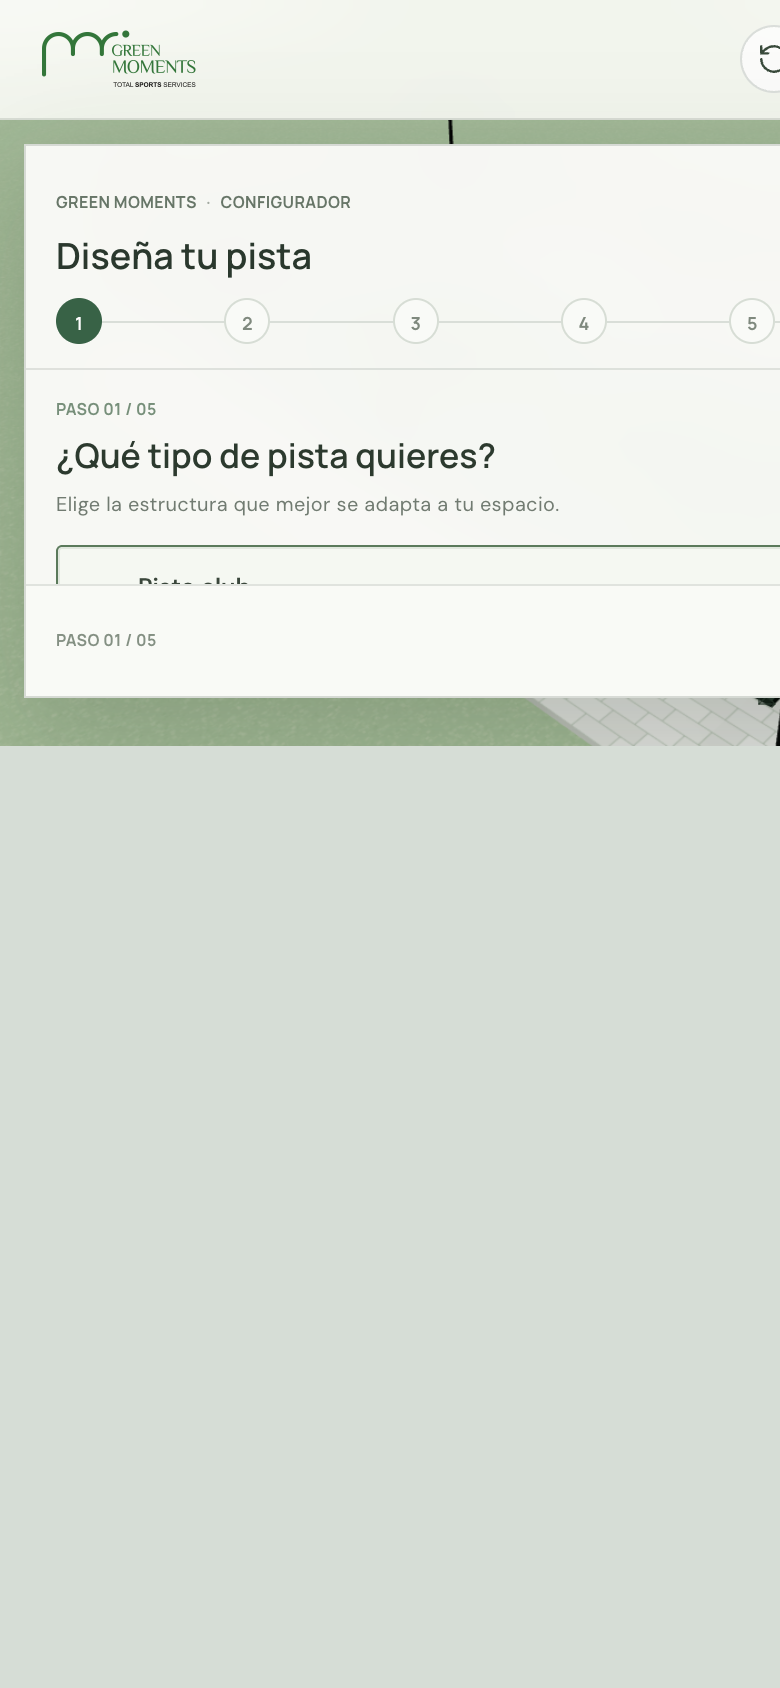
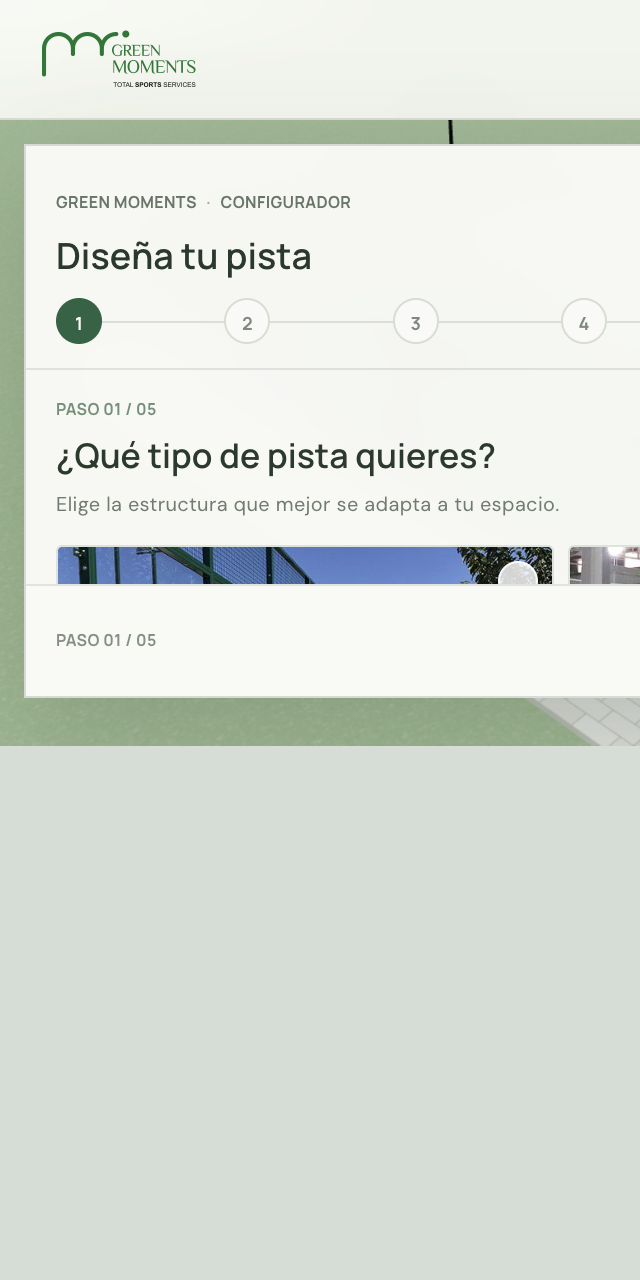
Add Green Moments court model photo selector

Changed region(s): [[0.0, 0.0, 1.0, 0.5938], [0.9062, 0.25, 0.9375, 0.2812]]

diff --git a/src/App.tsx b/src/App.tsx
@@ -6,8 +6,12 @@ import { ArrowLeft, ArrowRight, Camera, Check, Mail, Moon, Move3D, Pencil, Rotat
 import './App.css'
 
 const courtTypes = [
-  { id: 'club', label: 'Pista club', description: 'Fondos de vidrio con postes intermedios' },
-  { id: 'panoramic', label: 'Pista panorámica', description: 'Fondos continuos sin postes intermedios' },
+  { id: 'modular', label: 'Pista modular', description: 'Montaje versátil con estructura modular.', image: 'court-model-modular.jpg' },
+  { id: 'pillars', label: 'Pista de pilares', description: 'Estructura reforzada con pilares intermedios.', image: 'court-model-pillars.jpg' },
+  { id: 'panoramic', label: 'Pista panorámica', description: 'Fondos acristalados continuos para una visión amplia.', image: 'court-model-panoramic.jpg' },
+  { id: 'individual', label: 'Pista individual', description: 'Formato compacto para partidos uno contra uno.', image: 'court-model-individual.jpg' },
+  { id: 'indoor', label: 'Pista indoor', description: 'Configuración bajo cubierta.', image: 'court-model-indoor.jpg' },
+  { id: 'outdoor', label: 'Pista outdoor', description: 'Configuración para instalaciones al aire libre.', image: 'court-model-outdoor.jpg' },
 ] as const
 
 const grassTypes = [
@@ -50,7 +54,7 @@ type CourtConfiguration = {
 }
 
 const defaultCourtConfiguration: CourtConfiguration = {
-  courtType: 'club',
+  courtType: 'modular',
   grassType: 'monofilament',
   grassColor: 'green',
   frameColor: 'black',
@@ -149,6 +153,7 @@ function createLandscapeTexture() {
 function CourtScene({ night, court }: { night: boolean; court: CourtConfiguration }) {
   const turf = useMemo(() => createTurfTexture(court.grassColor, court.grassType), [court.grassColor, court.grassType])
   const frameColor = frameColors.find((option) => option.id === court.frameColor)?.color ?? '#242a27'
+  const courtWidthScale = court.courtType === 'individual' ? 0.62 : 1
 
   const fenceGeometry = useMemo(() => {
     const points: number[] = []
@@ -171,7 +176,7 @@ function CourtScene({ night, court }: { night: boolean; court: CourtConfiguratio
   }, [])
 
   const floodlightPositions: [number, number, number][] = [
-    [-11, 6, -6], [-11, 6, 6], [11, 6, -6], [11, 6, 6],
+    [-11, 6, -6 * courtWidthScale], [-11, 6, 6 * courtWidthScale], [11, 6, -6 * courtWidthScale], [11, 6, 6 * courtWidthScale],
   ]
 
   return (
@@ -186,6 +191,7 @@ function CourtScene({ night, court }: { night: boolean; court: CourtConfiguratio
       ))}
 
       <OutdoorEnvironment night={night} />
+      <group scale={[1, 1, courtWidthScale]}>
       <mesh position={[0, 0, 0]} receiveShadow castShadow>
         <boxGeometry args={[20.35, 0.16, 10.35]} />
         <meshStandardMaterial color="#1e3228" roughness={0.7} />
@@ -214,6 +220,8 @@ function CourtScene({ night, court }: { night: boolean; court: CourtConfiguratio
       <Suspense fallback={null}><LogoSigns /></Suspense>
       <Floodlights night={night} type={court.lighting} frameColor={frameColor} />
       <mesh position={[0, 0.2, 0]}><sphereGeometry args={[0.12, 20, 20]} /><meshStandardMaterial color="#f2e955" roughness={0.35} /></mesh>
+      {court.courtType === 'indoor' && <IndoorRoof frameColor={frameColor} />}
+      </group>
       <ContactShadows position={[0, -0.055, 0]} opacity={night ? 0.45 : 0.25} scale={28} blur={2.8} far={8} />
       <OrbitControls makeDefault target={[0, 1.2, 0]} minDistance={13} maxDistance={32} minPolarAngle={0.35} maxPolarAngle={1.42} enablePan={false} dampingFactor={0.08} />
     </>
@@ -263,17 +271,31 @@ function Net() {
 }
 
 function FenceSupports({ courtType, frameColor }: { courtType: CourtConfiguration['courtType']; frameColor: string }) {
+  const sidePostPositions = courtType === 'pillars' ? [-10, -7.5, -5, 0, 5, 7.5, 10] : [-10, -7.5, 0, 7.5, 10]
+  const endPostPositions = courtType === 'panoramic' ? [-5, 5] : [-5, 0, 5]
   return (
     <group>
-      {[-10, -7.5, 0, 7.5, 10].flatMap((x) => [-1, 1].map((side) => (
+      {sidePostPositions.flatMap((x) => [-1, 1].map((side) => (
         <mesh key={`side-pole-${x}-${side}`} position={[x, 2.14, side * 5.03]}><boxGeometry args={[0.085, 4.28, 0.085]} /><meshStandardMaterial color={frameColor} metalness={0.72} roughness={0.32} /></mesh>
       )))}
-      {[-10, 10].flatMap((x) => (courtType === 'club' ? [-5, 0, 5] : [-5, 5]).map((z) => (
+      {[-10, 10].flatMap((x) => endPostPositions.map((z) => (
         <mesh key={`end-pole-${x}-${z}`} position={[x, 2.14, z]}><boxGeometry args={[0.085, 4.28, 0.085]} /><meshStandardMaterial color={frameColor} metalness={0.72} roughness={0.32} /></mesh>
       )))}
       <mesh position={[0, 4.25, -5.03]}><boxGeometry args={[20.1, 0.09, 0.09]} /><meshStandardMaterial color={frameColor} metalness={0.65} roughness={0.35} /></mesh>
       <mesh position={[0, 4.25, 5.03]}><boxGeometry args={[20.1, 0.09, 0.09]} /><meshStandardMaterial color={frameColor} metalness={0.65} roughness={0.35} /></mesh>
       {[-10.03, 10.03].map((x) => <mesh key={`end-rail-${x}`} position={[x, 4.25, 0]}><boxGeometry args={[0.09, 0.09, 10.1]} /><meshStandardMaterial color={frameColor} metalness={0.65} roughness={0.35} /></mesh>)}
+    </group>
+  )
+}
+
+function IndoorRoof({ frameColor }: { frameColor: string }) {
+  return (
+    <group>
+      <mesh position={[0, 8.3, 0]} rotation={[-Math.PI / 2, 0, 0]}>
+        <planeGeometry args={[21, 10.8]} />
+        <meshPhysicalMaterial color="#d7dfd8" transparent opacity={0.22} roughness={0.5} metalness={0.08} depthWrite={false} side={DoubleSide} />
+      </mesh>
+      {[-9, -4.5, 0, 4.5, 9].map((x) => <mesh key={`roof-rafter-${x}`} position={[x, 8.18, 0]}><boxGeometry args={[0.12, 0.12, 10.6]} /><meshStandardMaterial color={frameColor} metalness={0.42} roughness={0.48} /></mesh>)}
     </group>
   )
 }
@@ -376,6 +398,19 @@ function App() {
     )
   }
 
+  function renderCourtChoices() {
+    return (
+      <div className="court-choice-grid">
+        {courtTypes.map((option) => (
+          <button key={option.id} className={`court-model-card${configuration.courtType === option.id ? ' is-selected' : ''}`} type="button" aria-pressed={configuration.courtType === option.id} onClick={() => updateConfiguration('courtType', option.id)}>
+            <span className="court-model-image"><img src={`${import.meta.env.BASE_URL}${option.image}`} alt="" loading="lazy" /><span className="court-model-mark"><Check size={13} strokeWidth={2.5} /></span></span>
+            <span className="court-model-copy"><strong>{option.label}</strong><small>{option.description}</small></span>
+          </button>
+        ))}
+      </div>
+    )
+  }
+
   return (
     <main className={`experience${activeStep === null ? ' is-configurator-collapsed' : ''}`}>
       <Canvas key={resetKey} className="court-canvas" shadows="percentage" dpr={[1, 1.8]} camera={{ position: [17.5, 14.5, 18.5], fov: 38, near: 0.1, far: 100 }} gl={{ antialias: true, powerPreference: 'high-performance' }}>
@@ -425,7 +460,7 @@ function App() {
             <div className="configurator-content" key={activeStep}>
               {activeStep === 0 && <>
                 <div className="step-intro"><span>PASO 01 / 05</span><h2>¿Qué tipo de pista quieres?</h2><p>Elige la estructura que mejor se adapta a tu espacio.</p></div>
-                {renderChoices(courtTypes, configuration.courtType, (id) => updateConfiguration('courtType', id as CourtConfiguration['courtType']))}
+                {renderCourtChoices()}
               </>}
               {activeStep === 1 && <>
                 <div className="step-intro"><span>PASO 02 / 05</span><h2>¿Qué césped prefieres?</h2><p>Dos acabados deportivos para un juego preciso.</p></div>

diff --git a/src/App.css b/src/App.css
@@ -335,6 +335,18 @@ button:focus-visible, a:focus-visible { outline: 2px solid #4b815b; outline-offs
 .step-intro > span { display: block; margin-bottom: 8px; color: #709078; }
 .step-intro h2 { margin: 0; color: #283a2d; font-family: 'Manrope','Avenir Next',sans-serif; font-size: 20px; line-height: 1.22; font-weight: 600; letter-spacing: 0; }
 .step-intro p { margin: 7px 0 0; color: #6e7b70; font-size: 11px; line-height: 1.45; }
+.court-choice-grid { display: grid; grid-template-columns: repeat(2, minmax(0, 1fr)); gap: 9px; }
+.court-model-card { display: flex; min-width: 0; flex-direction: column; padding: 0; overflow: hidden; border: 1px solid #dce3da; border-radius: 3px; color: #37473a; background: rgba(255,255,255,.8); text-align: left; cursor: pointer; transition: border-color .18s ease, background .18s ease, box-shadow .18s ease; }
+.court-model-card:hover { border-color: #93ae95; background: #fff; }
+.court-model-card.is-selected { border-color: #527b58; background: #f4f8f1; box-shadow: inset 0 0 0 1px rgba(82,123,88,.13); }
+.court-model-image { position: relative; display: block; width: 100%; aspect-ratio: 16 / 9; overflow: hidden; background: #dce4dc; }
+.court-model-image img { display: block; width: 100%; height: 100%; object-fit: cover; transition: transform .24s ease; }
+.court-model-card:hover .court-model-image img { transform: scale(1.035); }
+.court-model-mark { position: absolute; top: 7px; right: 7px; display: grid; width: 20px; height: 20px; place-items: center; border: 1px solid rgba(255,255,255,.82); border-radius: 50%; color: transparent; background: rgba(255,255,255,.82); }
+.court-model-card.is-selected .court-model-mark { border-color: #286343; color: #fff; background: #286343; }
+.court-model-copy { display: flex; min-height: 59px; flex-direction: column; gap: 4px; padding: 8px 9px 9px; }
+.court-model-copy strong { font-size: 11px; line-height: 1.2; font-weight: 700; }
+.court-model-copy small { color: #748075; font-size: 8px; line-height: 1.35; }
 .choice-list { display: flex; flex-direction: column; gap: 9px; }
 .choice-card { position: relative; display: flex; width: 100%; min-height: 66px; align-items: center; gap: 11px; padding: 12px 13px; border: 1px solid #dce3da; border-radius: 3px; color: #37473a; background: rgba(255,255,255,.75); text-align: left; cursor: pointer; transition: border-color .18s ease, background .18s ease, box-shadow .18s ease; }
 .choice-card:hover { border-color: #93ae95; background: #fff; }
@@ -387,6 +399,10 @@ button:focus-visible, a:focus-visible { outline: 2px solid #4b815b; outline-offs
   .step-intro p { font-size: 10px; }
   .choice-list { gap: 7px; }
   .choice-card { min-height: 58px; padding: 10px; }
+  .court-choice-grid { gap: 7px; }
+  .court-model-copy { min-height: 57px; padding: 7px; }
+  .court-model-copy strong { font-size: 10px; }
+  .court-model-copy small { font-size: 7px; }
   .swatch-grid { gap: 6px; }
   .swatch-option { min-height: 68px; padding: 6px; }
   .color-swatch { height: 27px; }

diff --git a/README.md b/README.md
@@ -18,7 +18,7 @@ Abre la URL local que muestra Vite, normalmente `http://localhost:5173/`.
 - Arrastra la escena para orbitar la cámara y usa la rueda para acercar o alejar.
 - Usa el botón de sol/luna para alternar la iluminación diurna y nocturna.
 - Usa el botón de restablecer para recuperar el encuadre y la configuración iniciales.
-- Elige entre pista club o panorámica, dos tipos de césped, siete colores, siete acabados RAL y tres opciones de iluminación.
+- Elige entre seis modelos con fotos oficiales: modular, pilares, panorámica, individual, indoor y outdoor. También puedes configurar dos tipos de césped, siete colores, siete acabados RAL y tres opciones de iluminación.
 - Revisa y edita las selecciones en el resumen; «Solicitar presupuesto» prepara un correo a `victor@greenmoments.es` con la configuración.
 
 ## Verificación
